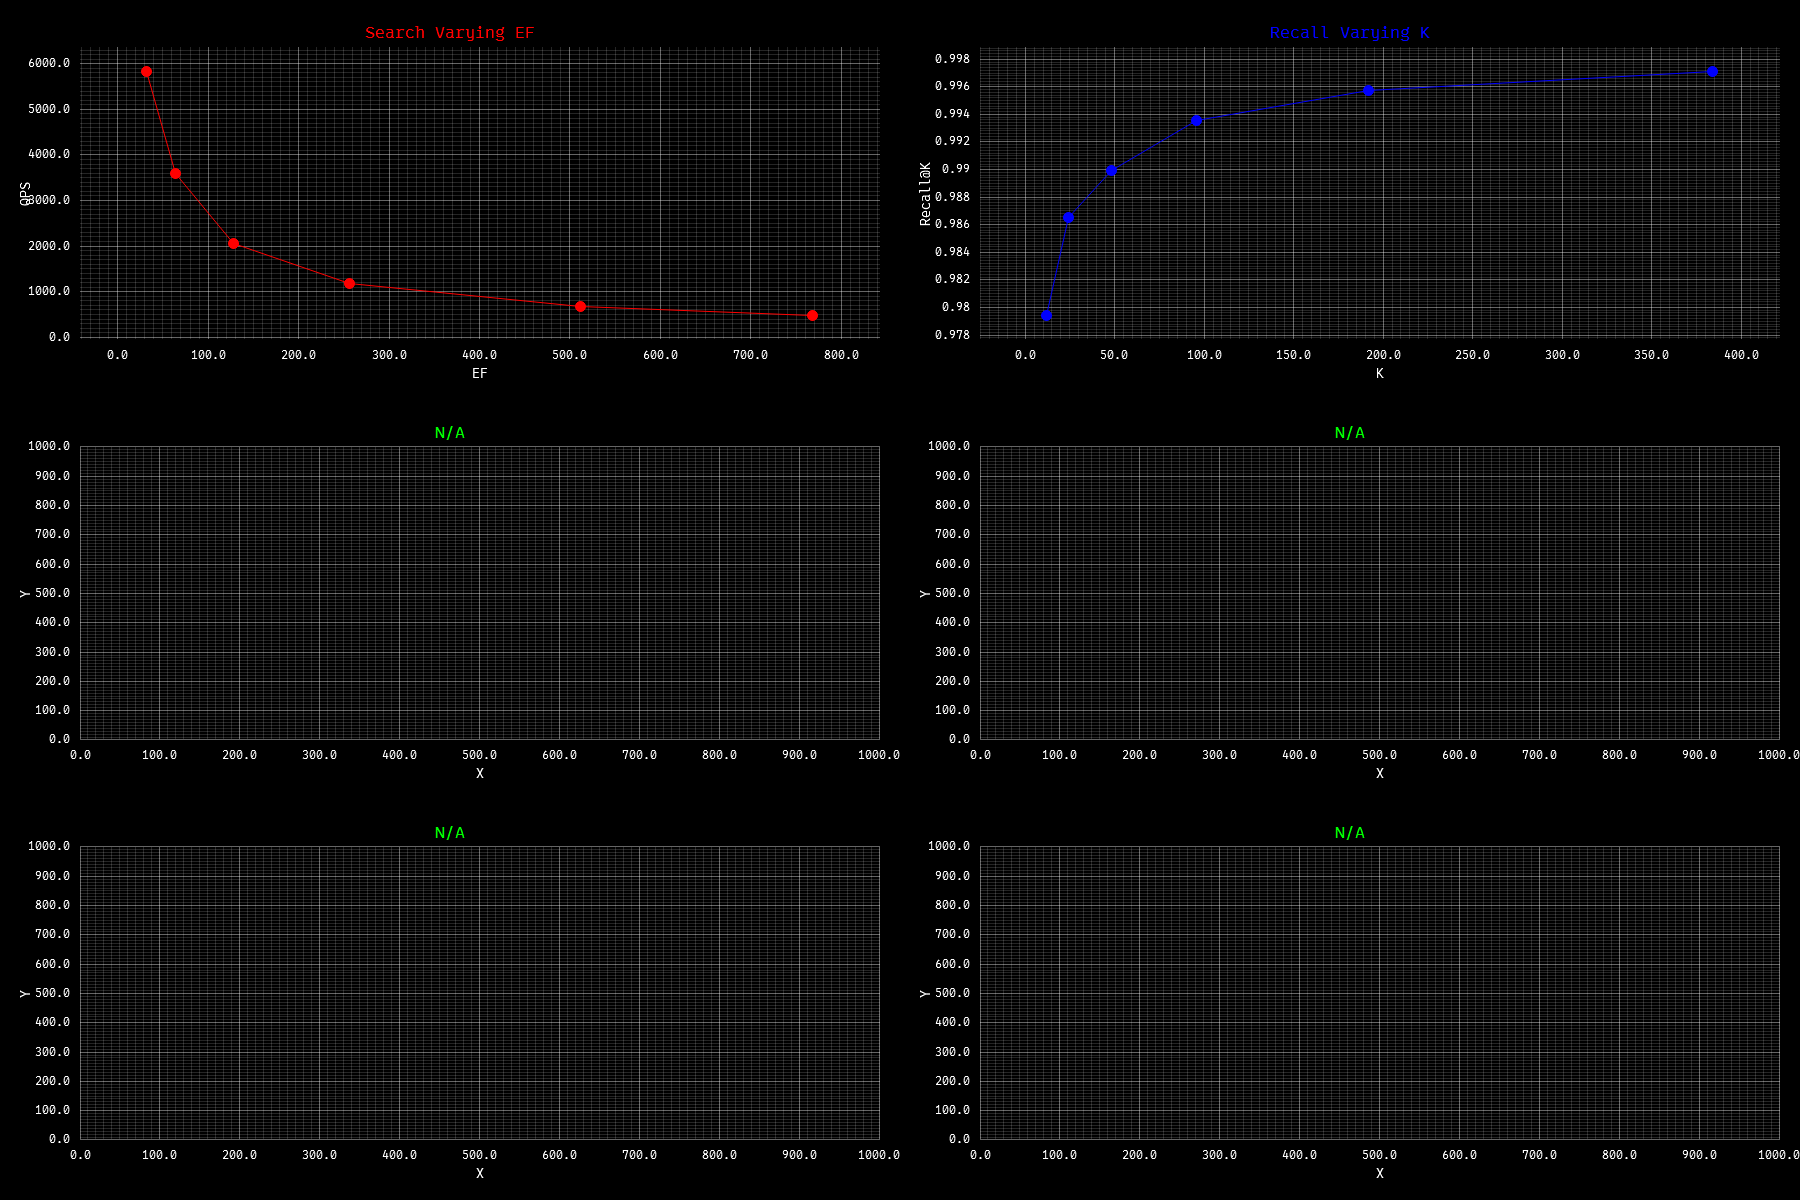
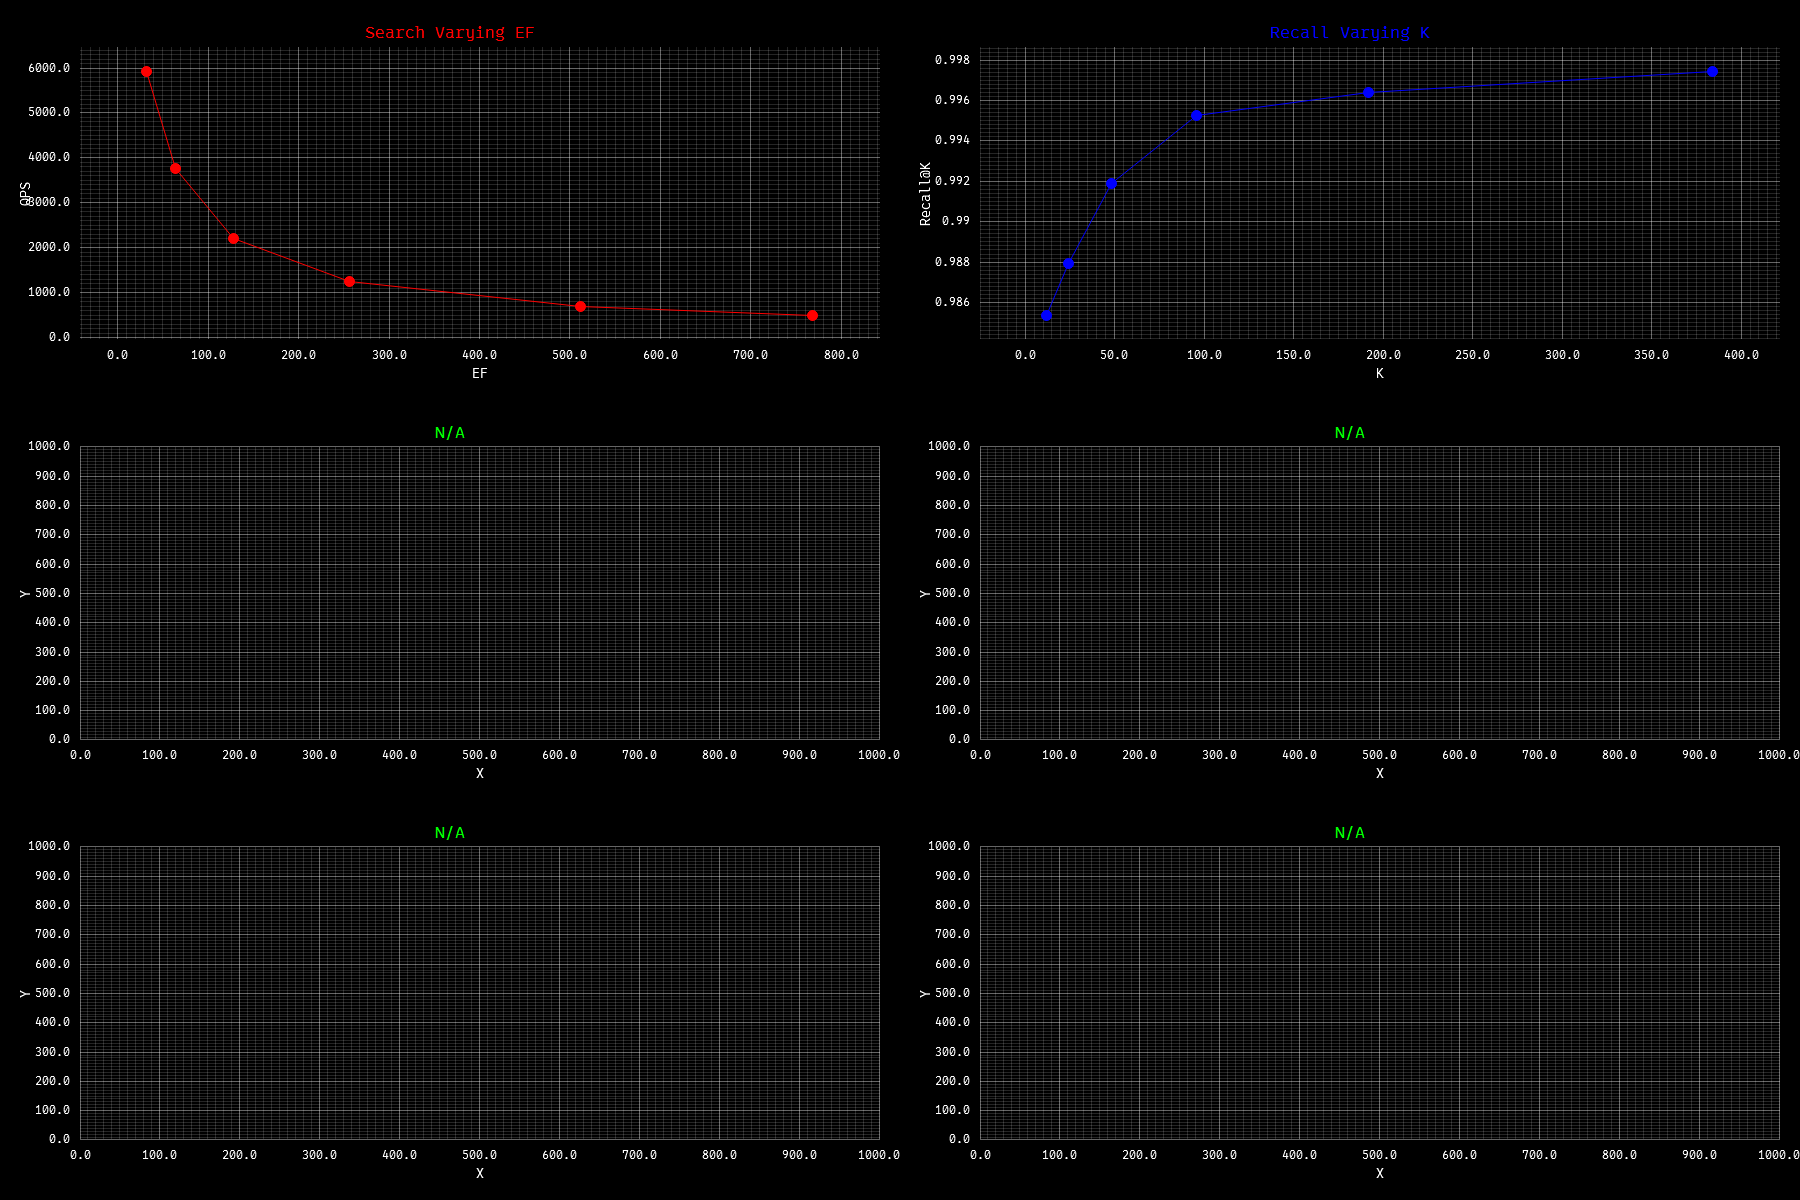
chore; update deps, bench, and minor opts

Changed region(s): [[0.5289, 0.0308, 0.9956, 0.3083], [0.0, 0.0617, 0.4978, 0.2775], [0.0, 0.0308, 0.0311, 0.0617]]

diff --git a/src/vector/portable.rs b/src/vector/portable.rs
@@ -217,7 +217,9 @@ pub fn dot_product(a: &[f32], b: &[f32]) -> f32 {
     }
 
     // reduce scalar
-    let mut total_sum = f32x8::reduce_add((sum0 + sum1) + (sum2 + sum3));
+    let total_sum1 = f32x8::reduce_add(sum0 + sum1);
+    let total_sum2 = f32x8::reduce_add(sum2 + sum3);
+    let mut total_sum = total_sum1 + total_sum2;
 
     // handle remainder
     for i in reminder_range {
@@ -349,7 +351,7 @@ pub fn euclidean_similarity(a: &[f32], b: &[f32]) -> f32 {
 
     // handle remainder
     for i in reminder_range {
-        let diff = a[i] - b[i];
+        let diff = a[i].algebraic_sub(b[i]);
         dist = diff.mul_add(diff, dist);
     }
 
@@ -416,7 +418,7 @@ pub fn euclidean_similarity_i8(a: &[i8], b: &[i8]) -> f32 {
 
     // handle remainder
     for i in reminder_range {
-        let diff = a[i] as f32 - b[i] as f32;
+        let diff = (a[i] as f32).algebraic_sub(b[i] as f32);
         dist = diff.mul_add(diff, dist);
     }
 
@@ -498,7 +500,7 @@ pub fn normalize_l2(v: &mut [f32]) {
     }
 }
 
-#[inline(always)]
+#[inline]
 /// Multiply two f32 matrices using 4 portable `SIMD` registers at a time, returning the resulting matrix.
 /// The matrices are expected to be in row-major order and the dimensions must match for multiplication, otherwise it will UB.
 /// _Peak performance is not guaranteed on `non-x86_64` arch_.
@@ -527,7 +529,7 @@ pub fn matmul(
     result
 }
 
-#[inline(always)]
+#[inline]
 #[allow(clippy::too_many_arguments)]
 #[allow(clippy::missing_safety_doc)]
 /// In-place SIMD-optimized matmul, the result is stored in the `result` slice, which must be pre-allocated to the correct size (rows_a * cols_b).
@@ -649,10 +651,10 @@ pub unsafe fn matmul_into(
                         }
 
                         // single writeback
-                        result[base] += sum0;
-                        result[base + 1] += sum1;
-                        result[base + 2] += sum2;
-                        result[base + 3] += sum3;
+                        result[base] = result[base].algebraic_add(sum0);
+                        result[base + 1] = result[base + 1].algebraic_add(sum1);
+                        result[base + 2] = result[base + 2].algebraic_add(sum2);
+                        result[base + 3] = result[base + 3].algebraic_add(sum3);
                     }
 
                     // handle remaining columns that don't fit into a 4-column block (32 elements)
@@ -688,7 +690,7 @@ pub unsafe fn matmul_into(
                             t += 1;
                         }
 
-                        result[base] += sum;
+                        result[base] = result[base].algebraic_add(sum);
                     }
                 }
             }
@@ -719,7 +721,7 @@ pub unsafe fn transpose_mat_into(rows: usize, cols: usize, input: &[f32], output
             let i_max = (ii + TILE).min(rows);
             let j_max = (jj + TILE).min(cols);
 
-            // tile blocking
+            // tiled, cache blocking
             for i in ii..i_max {
                 for j in jj..j_max {
                     unsafe {

diff --git a/src/vector/x86_64.rs b/src/vector/x86_64.rs
@@ -341,7 +341,7 @@ pub fn euclidean_similarity(a: &[f32], b: &[f32]) -> f32 {
     };
 
     for i in reminder_range {
-        let d = a[i] - b[i];
+        let d = a[i].algebraic_sub(b[i]);
         dist = d.mul_add(d, dist);
     }
 
@@ -407,7 +407,7 @@ pub fn euclidean_similarity_i8(a: &[i8], b: &[i8]) -> f32 {
     };
 
     for i in reminder_range {
-        let d = a[i] as f32 - b[i] as f32;
+        let d = (a[i] as f32).algebraic_sub(b[i] as f32);
         dist = d.mul_add(d, dist);
     }
 
@@ -488,7 +488,7 @@ pub fn normalize_l2(v: &mut [f32]) {
     }
 }
 
-#[inline(always)]
+#[inline]
 /// SIMD-optimized matrix multiplication for f32 matrices, using `AVX2` intrinsics for `x86_64` arch,
 /// returns a new matrix, `matrix_a` must be of size `rows_a x cols_a`, `matrix_b` must be of size `rows_b x cols_b`, and `cols_a` must equal `rows_b`
 pub fn matmul(
@@ -516,7 +516,7 @@ pub fn matmul(
     result
 }
 
-#[inline(always)]
+#[inline]
 #[allow(clippy::too_many_arguments)]
 #[allow(clippy::missing_safety_doc)]
 /// SIMD-optimized in-place matrix (row-major) multiplication for f32 matrices, using `AVX2` intrinsics for `x86_64` arch,
@@ -681,7 +681,7 @@ pub unsafe fn transpose_mat_into(rows: usize, cols: usize, input: &[f32], output
 }
 
 #[inline(always)]
-/// 8×8 in-register matrix transpose micro-kernel using `AVX2`. _MY HANDS ARE UP, I JUST COPY-PASTE FROM [Source](https://docs.rs/aprender-compute/0.63.0/src/trueno/blis/transpose.rs.html#50)_
+/// 8×8 in-register matrix transpose micro-kernel using `AVX2`.
 unsafe fn transpose_8x8_avx2(src: *const f32, src_stride: usize, dst: *mut f32, dst_stride: usize) {
     unsafe {
         // load 8 source rows
@@ -704,7 +704,7 @@ unsafe fn transpose_8x8_avx2(src: *const f32, src_stride: usize, dst: *mut f32, 
         let t6 = _mm256_unpacklo_ps(r6, r7);
         let t7 = _mm256_unpackhi_ps(r6, r7);
 
-        // shuffle 64-bit pairs inside 128-bit lanes using 0x44 and 0xEE
+        // shuffle 64-bit pairs inside 128-bit lanes using control byte
         let u0 = _mm256_shuffle_ps(t0, t2, 0x44);
         let u1 = _mm256_shuffle_ps(t0, t2, 0xEE);
         let u2 = _mm256_shuffle_ps(t1, t3, 0x44);
@@ -714,7 +714,7 @@ unsafe fn transpose_8x8_avx2(src: *const f32, src_stride: usize, dst: *mut f32, 
         let u6 = _mm256_shuffle_ps(t5, t7, 0x44);
         let u7 = _mm256_shuffle_ps(t5, t7, 0xEE);
 
-        // cross 128-bit lane permute
+        // 'cross' 128-bit lane permute
         let v0 = _mm256_permute2f128_ps(u0, u4, 0x20);
         let v1 = _mm256_permute2f128_ps(u1, u5, 0x20);
         let v2 = _mm256_permute2f128_ps(u2, u6, 0x20);

diff --git a/bench/f32.rs b/bench/f32.rs
@@ -92,7 +92,7 @@ fn main() -> Result<()> {
                 }
                 let elapsed = time.elapsed();
                 println!(
-                    "Search with ef: {} took, QPS: {:.2}",
+                    "Search with ef: {}, QPS: {:.2}",
                     ef,
                     query_count as f64 / elapsed.as_secs_f64()
                 );

diff --git a/bench/i8.rs b/bench/i8.rs
@@ -96,7 +96,7 @@ fn main() -> Result<()> {
                 }
                 let elapsed = time.elapsed();
                 println!(
-                    "Search with ef: {} took, QPS: {:.2}",
+                    "Search with ef: {}, QPS: {:.2}",
                     ef,
                     query_count as f64 / elapsed.as_secs_f64()
                 );

diff --git a/README.md b/README.md
@@ -17,84 +17,85 @@ cargo bench --bench (32bit or 8bit)  -- ../../datasets/dim1536_size1M 4 # 32bit 
                               <path to dataset> <num of files to read>
 ```
 
-> NOTE; This lib uses [Portable SIMD](https://docs.rs/wide/1.6.0/wide/index.html)
+> NOTE; This lib uses [Portable SIMD](https://docs.rs/wide/latest/wide/index.html)
 > and [x86_64 intrinsics](https://doc.rust-lang.org/core/arch/x86_64/index.html)
 > for vector operations, so _peak performance_ can't be guaranteed on non-x86_64 targets, but it should still work &
 > compile due to #[cfg].
 
-Benched on I7 14650hx (rust 1.97.1, target: x86_64-pc-windows-msvc)
+Benched on I7 14650hx (rust 1.99.0, target: x86_64-pc-windows-msvc)
 
 **_F32 Bench_**
 
-```shell
-# Alg. 3 (simple, paper default): max_n: 16, ef_const: 96, max_l: 18, metrics: cosine
+```terminaloutput
+# alg. 3 (simple, paper default): max_n: 16, ef_const: 96, max_l: 18, metrics: cosine
+
 Total vectors: 153848, dimension: 1536
-Index built in 148.0973492s with 1039 insert/s
-Size on disk: 988980701 bytes
+Index built in 141.92373s with 1091 insert/s
+Size on disk: 988980965 bytes
+Search with ef: 32, QPS: 3533.32
+Search with ef: 64, QPS: 2136.20
+Search with ef: 128, QPS: 1281.79
+Search with ef: 256, QPS: 738.33
+Search with ef: 512, QPS: 423.83
+Search with ef: 768, QPS: 301.98
 
-Search with ef: 32 took, QPS: 3329.71
-Search with ef: 64 took, QPS: 2048.05
-Search with ef: 128 took, QPS: 1211.30
-Search with ef: 256 took, QPS: 694.81
-Search with ef: 512 took, QPS: 407.79
-Search with ef: 768 took, QPS: 299.89
-
-Recall@12: 0.9845, Time: 31.11563
-Recall@24: 0.9869, Time: 31.486069
-Recall@48: 0.9901, Time: 31.932785
-Recall@96: 0.9939, Time: 33.085556
-Recall@192: 0.9959, Time: 34.371452
-Recall@384: 0.9971, Time: 37.14816
+Recall@12: 0.9850, Time: 31.097332
+Recall@24: 0.9870, Time: 32.529297
+Recall@48: 0.9910, Time: 33.92178
+Recall@96: 0.9941, Time: 34.369007
+Recall@192: 0.9960, Time: 36.086975
+Recall@384: 0.9972, Time: 38.018383
 
 Simple selection
-M: 8, Build Time: 5.0662s, Recall@32: 0.9117
-M: 16, Build Time: 9.0834s, Recall@32: 0.9602
-M: 32, Build Time: 20.6643s, Recall@32: 0.9816
-M: 48, Build Time: 36.4946s, Recall@32: 0.9933
-M: 64, Build Time: 63.7489s, Recall@32: 0.9966
-M: 96, Build Time: 142.2620s, Recall@32: 0.9989
+M: 8, Build Time: 4.6057s, Recall@32: 0.8907
+M: 16, Build Time: 8.3876s, Recall@32: 0.9578
+M: 32, Build Time: 21.0558s, Recall@32: 0.9852
+M: 48, Build Time: 34.2004s, Recall@32: 0.9915
+M: 64, Build Time: 66.5581s, Recall@32: 0.9952
+M: 96, Build Time: 133.9449s, Recall@32: 0.9973
 
 # same config varying M (Alg. 3), sample_size: 32540
 # Note: ef_const IS scales with M (ef_const = max(96, 2*M)) during this run
 Heuristic selection
-M: 8, Build Time: 8.7727s, Recall@32: 0.9653
-M: 16, Build Time: 15.5644s, Recall@32: 0.9882
-M: 32, Build Time: 14.5613s, Recall@32: 0.9926
-M: 48, Build Time: 15.0877s, Recall@32: 0.9931
-M: 64, Build Time: 21.9785s, Recall@32: 0.9968
-M: 96, Build Time: 38.5939s, Recall@32: 0.9986
+M: 8, Build Time: 8.3946s, Recall@32: 0.9614
+M: 16, Build Time: 15.3672s, Recall@32: 0.9866
+M: 32, Build Time: 15.0714s, Recall@32: 0.9899
+M: 48, Build Time: 14.9273s, Recall@32: 0.9912
+M: 64, Build Time: 21.6749s, Recall@32: 0.9955
+M: 96, Build Time: 39.1221s, Recall@32: 0.9987
 ```
 
 ![Bench plot](bench/plot_f32.png)
 
 **_I8 Bench_**
 
-```shell
+```terminaloutput
 # same config as 32bit run
+
 Total vectors: 153848, dimension: 1536
-Index built in 112.3598634s with 1373 insert/s
-Size on disk: 280084901 bytes
+Index built in 105.1351777s with 1465 insert/s
+Size on disk: 280051021 bytes
 
-Search with ef: 32 took, QPS: 5831.94
-Search with ef: 64 took, QPS: 3585.93
-Search with ef: 128 took, QPS: 2057.23
-Search with ef: 256 took, QPS: 1187.95
-Search with ef: 512 took, QPS: 679.14
-Search with ef: 768 took, QPS: 476.34
+Search with ef: 32 took, QPS: 5925.33
+Search with ef: 64 took, QPS: 3773.94
+Search with ef: 128 took, QPS: 2210.25
+Search with ef: 256 took, QPS: 1245.92
+Search with ef: 512 took, QPS: 694.52
+Search with ef: 768 took, QPS: 491.33
 
-Recall@12: 0.9794, Time: 13.588794
-Recall@24: 0.9865, Time: 13.800337
-Recall@48: 0.9899, Time: 13.994714
-Recall@96: 0.9936, Time: 14.575672
-Recall@192: 0.9957, Time: 15.574082
-Recall@384: 0.9971, Time: 16.763058
+Recall@12: 0.9854, Time: 12.860607
+Recall@24: 0.9879, Time: 12.734484
+Recall@48: 0.9919, Time: 13.520533
+Recall@96: 0.9953, Time: 14.085893
+Recall@192: 0.9964, Time: 15.149124
+Recall@384: 0.9974, Time: 16.874908
 
 # other bench are not needed here, since they depend on the algorithm properties, not data type. 
 ```
 
 ![Bench plot](bench/plot_i8.png)
 
-> Last updated: 08/10/2026
+> Last updated: 10/20/2026
 
 **some observations**
 on [commit](https://github.com/ronakgh97/hnsw-rs/commit/57aa9fd42877c267e22645d7821c1f671ed76896)
